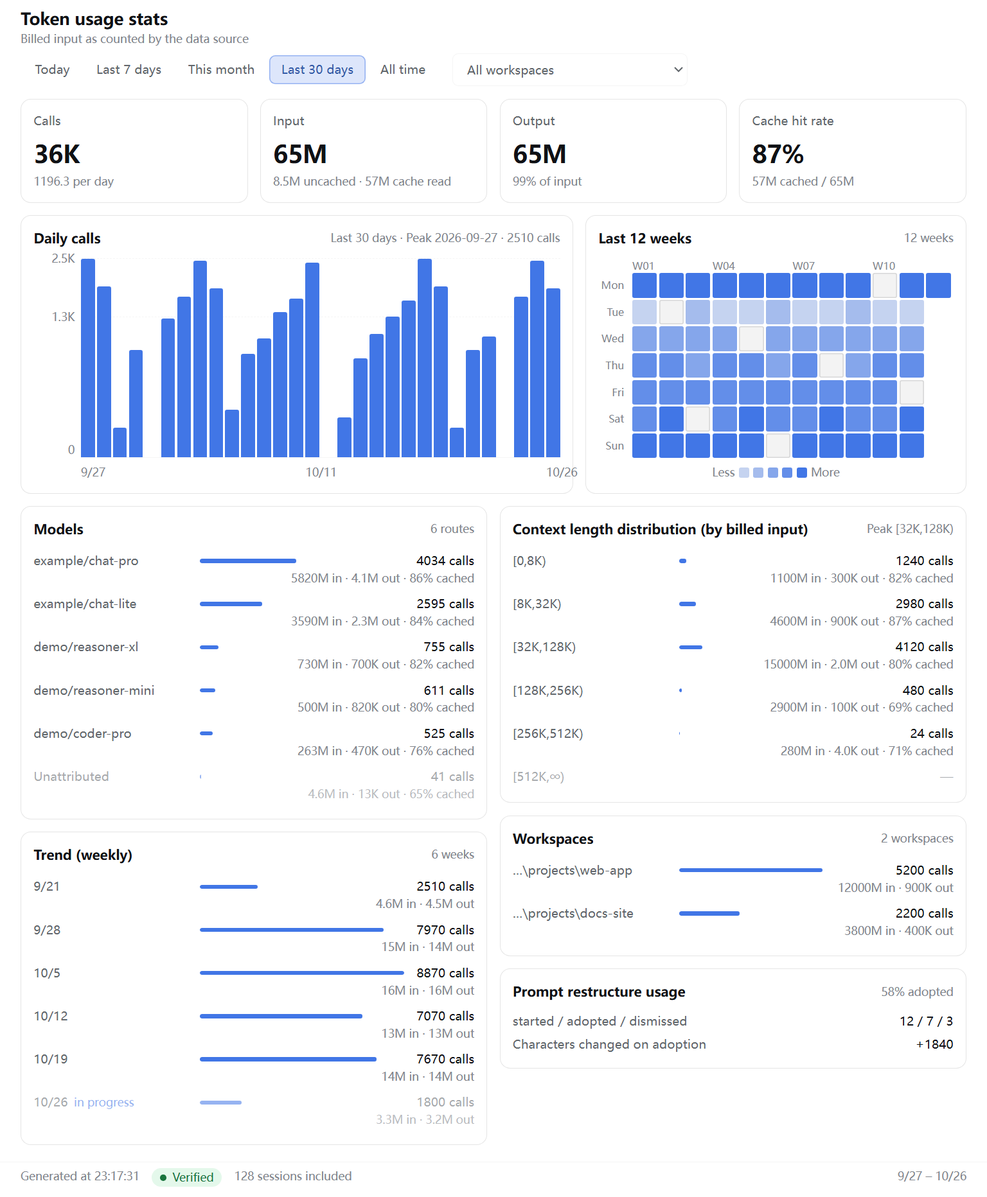
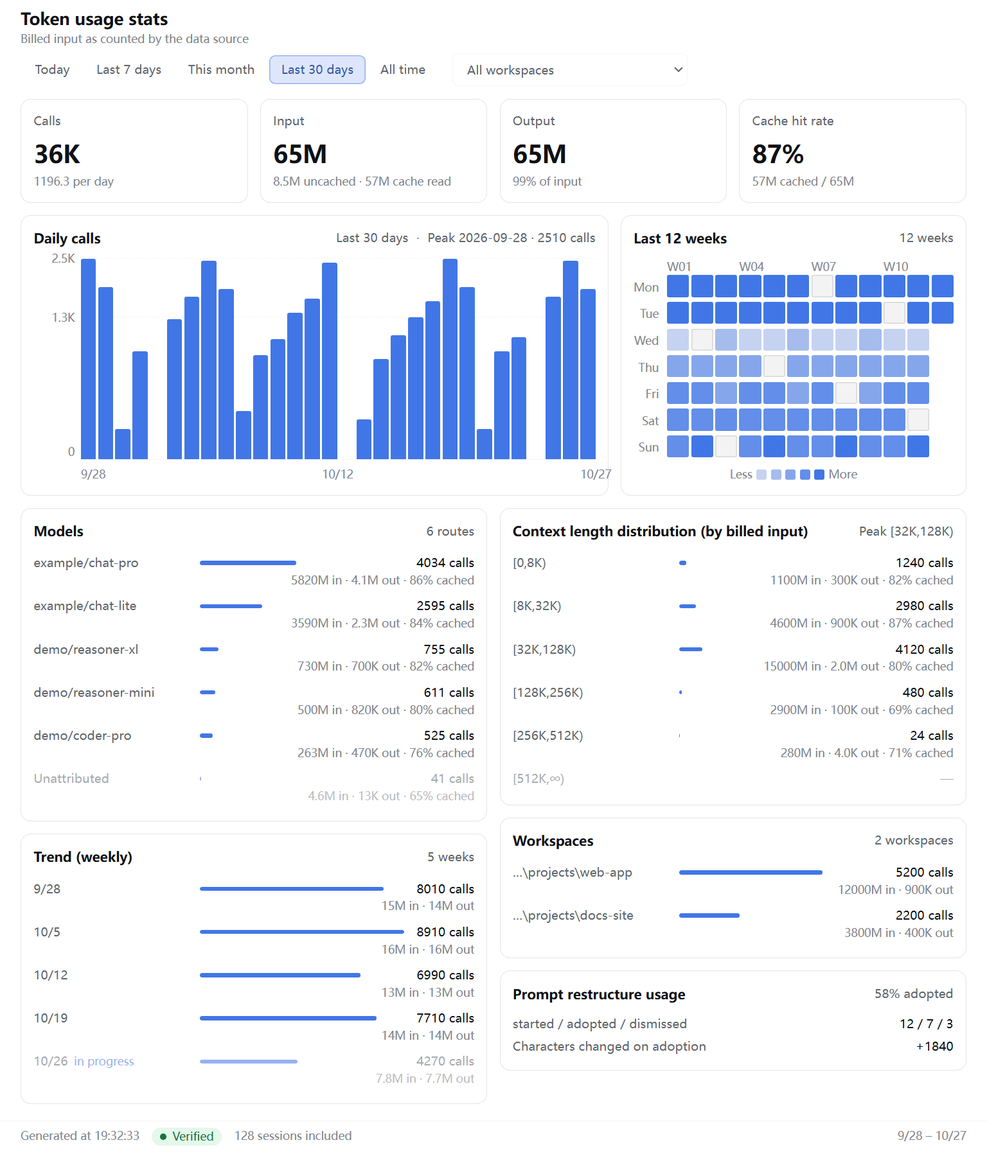
style(tokstats): refine wide chart layout and header hierarchy
- widen the daily chart relative to the fixed-size heatmap for wide panels

- separate chart range from conclusions, strengthen readable metadata, and enlarge heatmap coordinates

- cover the new hierarchy with TS-36 assertions and refresh localized screenshots

diff --git a/lib/client.js b/lib/client.js
@@ -723,9 +723,16 @@ window.__ModuleLoader__.load({
 					react.createElement("span", { className: "dsh-tokstats-cardTitle" }, title),
 					extra === undefined && note === undefined
 						? null
-						: react.createElement("span", { className: "dsh-tokstats-cardExtra" },
-							note === undefined ? null : note + " · ",
-							extra)),
+						: react.createElement("span", { className: "dsh-tokstats-cardAside" },
+							note === undefined ? null : react.createElement("span", {
+								className: "dsh-tokstats-cardRange", title: note,
+							}, note),
+							note !== undefined && extra !== undefined
+								? react.createElement("span", { className: "dsh-tokstats-cardSeparator", "aria-hidden": "true" }, "·")
+								: null,
+							extra === undefined ? null : react.createElement("span", {
+								className: "dsh-tokstats-cardExtra", title: extra,
+							}, extra))),
 				children);
 		}
 
@@ -1901,19 +1908,20 @@ window.__ModuleLoader__.load({
 			// 卡片栅格：单列容器（时间图一行 + 下方自适应两列）。间距统一 12px
 			//（SPEC §5.3），与卡片内边距同值，栏线才等距。
 			".dsh-tokstats-grid{gap:12px;display:grid;grid-template-columns:1fr}",
-			// 时间图并排（日柱图在左、热力图在右）：**1.45 : 1**，两卡等高（stretch），
+			// 时间图并排（日柱图在左、热力图在右）：**1.7 : 1**，两卡等高（stretch），
 			// 高度以较高的那张为准，短的那张把内容顶部对齐。
 			//
 			// 为什么不是 1:1（v0.8.0 曾是 1:1，理由是「让三行对齐成同一根栏线」）：
 			// 两张图回答的问题不同——日柱图是**主图**（逐日走势，30 列时每列只有 9–13px，
 			// 再窄就退化成一排竖线），热力图是**索引**（12×7 的定位用图，格子有 24px
 			// 上限、整图封顶 310px，给再多宽度也用不上）。1:1 把宽度平均分给两者，
-			// 结果是主图被压窄、副图留白——栏线对齐换来的是主图失真。样稿也是 1.45:1。
+			// 结果是主图被压窄、副图留白。1.45:1 在超宽宿主里仍给主图偏少，现调到
+			// 1.7:1；仍守住 2:1 上界，不让热力图窄到读不出色阶。
 			//
 			// 折成单列的门槛 820px：等宽分栏后每张卡只剩约 (视口 − 侧栏 − 48)/2，
 			// 低于 820px 时热力图格子会压到 18px 以下、柱图横向刻度开始挤，那时并排
 			// 已经不划算了。
-			".dsh-tokstats-pairGrid{gap:12px;display:grid;grid-template-columns:1.45fr 1fr;align-items:stretch}",
+			".dsh-tokstats-pairGrid{gap:12px;display:grid;grid-template-columns:1.7fr 1fr;align-items:stretch}",
 			"@media (max-width:820px){.dsh-tokstats-pairGrid{grid-template-columns:1fr}}",
 			// 自适应两列（TS-31）：**每张卡保持自己的高度**，列内自上而下紧挨着排。
 			//
@@ -1942,7 +1950,15 @@ window.__ModuleLoader__.load({
 			// 与「这是哪项指标」不会读成同一层。`min-width:0` 让右侧附加信息拿到
 			// 省略空间而不是把标题挤出去。
 			".dsh-tokstats-cardTitle{color:var(--dsw-alias-label-primary);font-size:13px;font-weight:600;line-height:20px;min-width:0;overflow:hidden;text-overflow:ellipsis;white-space:nowrap}",
-			".dsh-tokstats-cardExtra{color:var(--dsw-alias-label-tertiary);margin-left:auto;font-variant-numeric:tabular-nums lining-nums;font-size:11px;line-height:16px;text-align:right;white-space:nowrap;overflow:hidden;text-overflow:ellipsis;flex:none;max-width:60%}",
+			// 卡头右侧不是一整串同级灰字：范围（实际窗口）与结论（峰值 / 采纳率）
+			// 都是读图信息，升到 12/18 + secondary；只有分隔符留在附注层。两者各自
+			// 带完整 title，窄卡省略后仍能读到原值，不靠把文字挤小来硬塞。
+			".dsh-tokstats-cardRange,.dsh-tokstats-cardExtra{color:var(--dsw-alias-label-secondary);font-variant-numeric:tabular-nums lining-nums;font-size:12px;line-height:18px;text-align:right;white-space:nowrap;overflow:hidden;text-overflow:ellipsis;min-width:0}",
+			// 右侧整组靠右，范围与结论相邻；整组可收缩，但内部三项不许被各自
+			// 压成省略号——空间不足时优先缩标题，仍然不够才缩整组。
+			".dsh-tokstats-cardAside{margin-left:auto;min-width:0;display:flex;align-items:center;gap:8px;flex:0 1 auto}",
+			".dsh-tokstats-cardRange,.dsh-tokstats-cardExtra{flex:none}",
+			".dsh-tokstats-cardSeparator{color:var(--dsw-alias-label-tertiary);font-size:11px;line-height:16px;flex:none}",
 			// 行列表（promptopt 计数器用）：只有「标签 + 数值」两列，不需要比例条。
 			".dsh-tokstats-row{align-items:center;gap:12px;padding:2px 0;display:flex}",
 			".dsh-tokstats-rowLabel{color:var(--dsw-alias-label-secondary);font-variant-numeric:tabular-nums lining-nums;min-width:0;text-overflow:ellipsis;white-space:nowrap;flex:none;max-width:42%;overflow:hidden}",
@@ -1993,10 +2009,10 @@ window.__ModuleLoader__.load({
 			".dsh-tokstats-heatFrame{column-gap:6px;row-gap:0;justify-content:center;max-width:340px;margin:2px auto 0;display:grid;grid-template-columns:auto auto;grid-template-rows:auto auto}",
 			".dsh-tokstats-heatCorner{grid-area:1/1}",
 			// 周标：与格子同样的 12 条轨道 + 同样的 2px 间距（少一个参数就会逐列累积偏移）。
-			".dsh-tokstats-heatWeeks{grid-area:1/2;color:var(--dsw-alias-label-tertiary);font-variant-numeric:tabular-nums;font-size:10px;line-height:14px;display:grid;grid-template-columns:repeat(12,minmax(0,24px));gap:2px;justify-content:center}",
+			".dsh-tokstats-heatWeeks{grid-area:1/2;color:var(--dsw-alias-label-tertiary);font-variant-numeric:tabular-nums;font-size:11px;line-height:16px;display:grid;grid-template-columns:repeat(12,minmax(0,24px));gap:2px;justify-content:center}",
 			".dsh-tokstats-heatWeekTick{white-space:nowrap;overflow:visible}",
 			// 行标：7 行与格子同高同间距，文字在每条轨道里垂直居中。
-			".dsh-tokstats-heatDows{grid-area:2/1;color:var(--dsw-alias-label-tertiary);font-size:10px;line-height:14px;display:grid;grid-template-rows:repeat(7,minmax(0,24px));gap:2px;align-items:center}",
+			".dsh-tokstats-heatDows{grid-area:2/1;color:var(--dsw-alias-label-tertiary);font-size:11px;line-height:16px;display:grid;grid-template-rows:repeat(7,minmax(0,24px));gap:2px;align-items:center}",
 			".dsh-tokstats-heatDow{display:flex;align-items:center;justify-content:flex-end;padding-right:2px}",
 			".dsh-tokstats-heat{grid-area:2/2;display:grid;grid-template-columns:repeat(12,minmax(0,24px));grid-template-rows:repeat(7,minmax(0,24px));grid-auto-flow:column;justify-content:center;gap:2px;max-width:310px;margin:0}",
 			// 格子默认是**背景色**（零日无填充）。`border:none;padding:0` 清掉 button

diff --git a/docs/INVARIANTS.md b/docs/INVARIANTS.md
@@ -73,11 +73,12 @@
 | TS-28 | **热力图**（形状与可读性契约）：面板新增 12 周热力图，**窗口固定 84 天且不随档位变**（`TOKSTATS_HEATMAP_DAYS = 84`；跟 `windowDays` 走会让「近 7 天」档缩成 7 格，失去「稳定时间轴」职责）。色阶按 `sqrt(calls/peak)` 五档（边界 0.2 / 0.4 / 0.6 / 0.8 → 五档明度）。实现是 `color-mix(in srgb, accent N%, 面板格底色)`（26 / 44 / 62 / 81 / 100%），**不是「同色 + opacity」**：opacity 会把背后的卡片底色一起透出来，暗色主题下第一档几乎与零日格同色；且图例要跟格子对得上，opacity 方案得让图例自己再叠一层、算出来的不是同一个颜色。格子与图例**共用** `.dsh-tokstats-ramp` + `data-level` 一套规则；零日格底色走面板变量 `--dsh-tokstats-cell`（`label-primary` 5% 混入 layer-1），**不得直接取 `bg-layer-2`**——亮色主题里 layer-1 / layer-2 都是纯白，零日格会隐形，与柱图柱高**同一公式**（TS-23），两张图对同一天给出同一视觉强度；`calls <= 0` 返回 0 = 无数据（**不是最浅档**），零日不填充且 tooltip 写「无记录」。折叠区（`[epoch.start, epoch.end)` 落在 84 天窗口内的部分）渲染为「不可按日拆」专用态，**不得渲染成「无记录」**——那天有量、只是被 E1 归并进区间了，那是谎报。布局 12 列 × 7 行、**周一在最上**（与 host `tokstatsWeekStartOf` 同口径），容器 `role="grid"` + 每格 `aria-label` + 键盘导航（←/→ 跨日、↑/↓ 跨周、Enter/Space 选中、Esc 退出）；**末列未过完的周渲染成空占位而不是零格**（零格会被读成「那天没用量」，而它还没到）。折叠格样式用 `.dsh-tokstats-heatFolded` 且**不复用**柱图的 `.dsh-tokstats-barEpoch`（不同图形元素，共用类名会让改柱图折叠样式时意外改到热力图）；网格必须 `grid-auto-flow:column` + `grid-template-rows:repeat(7,…)`（配 `grid-template-columns:repeat(12,…)`），否则 84 个格子会横排成「十二个周一」；**格子必须有尺寸上限**（`minmax(0,24px)` 双向钳 + 整图 `max-width:310px` + `margin:2px auto 0` 居中；第五批起与日柱图并排且间距收紧，24px 是可点目标的下限）——纯 `1fr` 在整行卡片里会把每格拉到约 95px，热力图变成七行巨大色块并把下面所有卡片挤出首屏（实测全宽 1600×1000 只剩热力图），封顶后的余量必须两侧均分否则图挤在左缘。旧 host 无 `heatDaily` 时整卡不渲染、不抛错（硬规则 6） | client：`test/client-tokstats.test.mjs`「AC-6：热力图渲染 12 列 × 7 行，周一在最上（第一行第一格是周一）」「AC-6：末列未过完的周渲染成空占位，不是零格」「AC-7：色阶按 sqrt(calls/peak) 分五档（按值断言，不按「包含某档」）」「AC-8：零日不渲染填充（无 data-level），tooltip 写「无记录」」「AC-9：折叠区格子渲染为「不可按日拆」，且**不含「无记录」文案**（防谎报）」「AC-9：epoch 为 null 时不出现任何折叠格（反向断言）」「AC-11：键盘导航——←/→ 跨日、↑/↓ 跨周、Enter/Space 选中、Esc 退出」「AC-12：热力图词典键 zh/en 成对、整句模板、无残留占位符」「样式：热力图折叠格用斜纹 + 主题变量，且不复用柱图折叠类名（TS-28）」「TS-28：旧 host 无 heatDaily 时热力图整块不渲染、不抛错（硬规则 6）」「TS-28：heatDaily 为空数组时同样不渲染热力图卡」；host：`test/host-tokstats.test.mjs`「AC-4：heatDaily 恒为 84 天，不随 request.windowDays 变（端点级）」「AC-4：heatDaily 是纯增量字段，且不进投影状态（TS-01 / TS-16）」。**真实宿主目检**（AC-16 口径，本批由 Lead 执行）：12 周形状与本机真实数据一致（活跃日成串、中间断档为空格）、点某天进单日模式后五档置灰 + 面包屑出现、`Esc` 退出；中英两套各看一次 | L2 + 目检 |
 | TS-29 | **单日模式**（`day` 入参契约）：`summary` 端点新增**并列**入参 `day`（`^\d{4}-\d{2}-\d{2}$` 校验，非法按 `undefined`、不抛错也不退化成整窗），**`day` 存在时覆盖 `windowDays`**——这是显式裁决，不是实现巧合。明细过滤**必须双端钳**（`cell.d !== day`）：只把 `windowStart` 换成 `day` 的语义是「下界」，会把 day 之后的每一天都放进来，多报且看起来完全正常。`day` **不改** TS-20 的「五档共用 `windowDays`」契约——client 在单日下仍传 `windowDays`（它不知道 host 的优先级规则），所以两者必须能并存。`day` 落在某会话 `[epoch.start, epoch.end)` 内时 host 返回 `dayFolded: true`（多会话取**或**），且**不把 epoch 合计挂到那一天**（区间合计不是那天的真实用量），但 epoch 端点仍要报出来（client 靠它截断热力图）；`dayFolded` 只在 `day` 存在时出现（纯增量）。client 侧：`dayFolded === true` 时显示「该日已折叠」而**不显示任何数字**——折叠日的 `totals` 是 0，照常渲染会让读者看到「这一天一次都没用过」，同样是谎报；单日下五档按钮**置灰不隐藏**（隐藏会让工具条高度变化、面板跳动），日柱图与周趋势卡**隐藏**（单日柱图只剩一根孤柱；周合计与 `totals` 完全相同，是复述主值），KPI「调用次数」副值改「占 84 天份额」且分母取 `heatDaily` 合计、**不得取 `totals`**（后者恒得 100%），维持 TS-17 的四卡副值两两不等；折叠格与零日**不可点**（渲染时即用 `epoch.start` / `epoch.end` 判定，不需要先请求——点进去会显示偏低的数）；工作区过滤器与 `day` 叠加生效；页脚区间在单日下换成单日形态（不得写成「窗口下界 – 今天」，那会写着「10/20 – 10/25」而面板全是 10/20 的数，读者会以为算错了区间）；`heatDaily` 在单日下照常返回 84 天（SPEC D15：不特判，为它写分支反而增加状态机 bug 面） | host：`test/host-tokstats.test.mjs`「AC-1：day 过滤只留那一天（双端钳，day 之后的天不得混进来）」「AC-2：day 存在时覆盖 windowDays（裁决 C 的唯一防线）」「AC-3：dayFolded 两态——day 落在折叠区间内为 true，区间外为 false」「AC-3：dayFolded 只在 day 存在时出现（纯增量，旧 client 不受影响）」「AC-3：非法 day 按 undefined 处理（不抛错、不退化成整窗）」「TS-29：单日模式下 heatDaily 照常 84 天（SPEC D15：不特判）」「TS-29：单日模式下 epoch 合计不得挂到那一天（否则数字不是那天的）」「TS-29：day 落在折叠区间内时 epoch 端点仍要报（client 靠它截断热力图）」；client：`test/client-tokstats.test.mjs`「AC-10：单日模式下五档按钮全部置灰（置灰不隐藏）」「AC-10：单日下日柱图隐藏、周趋势卡隐藏（裁决 A）」「AC-10：单日下 KPI 副值改「占 84 天份额」，四卡副值两两不等（不复述主值）」「AC-10：单日模式请求带 day，且仍带 windowDays（host 按裁决 C 覆盖）」「AC-10：面包屑出现，点「全部区间」退出单日模式」「AC-10：点已选中的格退出单日模式（第二个出口）」「TS-29：点进折叠日**不显示任何数字**，只显示折叠说明（防谎报）」「TS-29：折叠格不可点（渲染时即判定，不需要先请求）」「TS-29：折叠格不可点、零日不可点，两者 tooltip 各写明原因（AC-10 / SPEC D10）」「TS-29：单日模式页脚只显示那一天，不是「窗口下界 – 今天」」「TS-29：单日模式下工作区过滤器与 day 叠加（两个过滤器同时生效）」。**真实宿主目检**（AC-16 口径，本批由 Lead 执行）：点某天 → 面板整体重算成那天的数、面包屑显示日期、`Esc` 退出；中英两套各看一次 | L2 + 目检 |
 | TS-30 | **顶部四卡跟随时间档位**（缺省「当日」）：四张指标卡回答「所选区间一共用了多少」，与下方图表的窗口**同源**（都取 `totals`，host 已按窗口 + 工作区过滤）；没有第二套「当日」取值，也就不存在两套数打架的面。曾有一版把四卡钉死在「当日」、不随档位变——那会让「近 30 天」的图表上面挂着一天的数，读者得自己记住两套口径。「调用次数」副值按窗口形态选：**单天窗口**（当日档 / 单日模式）给「占 84 天份额」——日均会等于主值本身，复述主值违反 TS-17；**多天窗口**给日均；「全部」档没有天数概念，写「全部历史」。**`weekly` 不足 2 行就不渲染周趋势卡**（当日档、本月月初那几天、单日模式都落在这里）：那一行恒等于 `totals`，是复述主值；判据用**行数**而不是档位天数——只判 `days === 1` 会漏掉「本月」1–7 号。隐藏后尾部剩下的卡由 `pairRow` 自动凑行，不得留半个空列。日柱图在当日档**仍保留**，且按固定 7 天窗口画（TS-33）——按档位隐藏整卡会让切档时整页重排 | `test/client-tokstats.test.mjs`「TS-30：缺省「当日」档——四卡显示今天的数；切到「近 7 天」后同步变成区间合计」（四卡四个数逐项变化 + 副值从「占 84 天份额」变「日均」）「AC-9：周趋势不足 2 行时整卡不渲染（那一行恒等于四卡合计，复述主值）」「TS-33：日柱图跟随档位、但窗口不少于 7 天（当日档仍画 7 根柱）」「TS-17 / AC-5：KPI 四卡副值两两不等…」「AC-10：单日下 KPI 副值改「占 84 天份额」，四卡副值两两不等（不复述主值）」；真实宿主目检（第五批）：五档逐档点一遍，四卡与图表数字同步变化、当日档无周趋势卡、切回当日数字回到当天 | L2 + 目检 |
-| TS-31 | **上方时间图并排、下方自适应两列**（布局契约）：① **顶部**两张时间图放在 `.pairGrid`（**`1.45fr 1fr`** + `align-items:stretch`），**日柱图在左、热力图在右**（主图优先），且**左侧必须严格宽于右侧**；只有一张时（单日模式隐藏柱图 / 旧 host 无 heatDaily）独占整行。比例从 v0.8.0 的 `1fr 1fr` 改成 1.45:1（2026-10-26，与样稿一致）：两张图回答的问题不同——日柱图是**主图**（30 列时每列只有 9–13px，再窄就退化成一排竖线），热力图是**索引图**（格子 24px 上限、整图封顶 310px，多给的宽度用不上）；1:1 把宽度平均分给两者，换来的是主图被压窄、副图留白。**上界仍是 2:1**（再宽热力图就留不住五档色阶）。两张都是图、天然等高，stretch 只是把余量交给柱图绘图区，不算浪费。② **下方**卡片放进 `.dsh-tokstats-columns`（`display:flex` + `align-items:flex-start`）里的两个 `.dsh-tokstats-column`（各 `flex:1`、`flex-direction:column`、`gap:12px`）：**每张卡保持自己的高度**，按估算高度（行数 × 单行高度）贪心塞进较矮的那一列，列内自上而下紧挨着排。**不得用 `display:grid` + `align-items:stretch` 强行等高**：行高由该行最高的卡决定，矮卡被拉高后下半张是空的——实测「上下文长度分布 6 行 vs 模型排行 16 行」时空出 400+px，那才是这次要修的浪费。③ 分配顺序即阅读顺序：模型排行固定第一张（左列顶部），其余（上下文长度 / 周趋势 / 工作区 / 提示词整理）按高度补进较矮的列；只有一张卡时独占整行（另一列留空更难看）。④ 尺寸与间距不变：热力图格子 `minmax(0,24px)`、绘图区 88px 起、栅格 gap 10px、卡片内边距 10px、页面左右 20px；窄窗（≤820px）列容器折成单列 | `test/client-tokstats.test.mjs`「AC-6：热力图与日柱图并排同一行（pairGrid 主图优先两列），另一张缺席时不占半行」（柱图在左、每行恰好两卡、第一列严格宽于第二列）「TS-31：下方是自适应两列——卡片保持自身高度，按估算高度贪心分列」（两列结构 + 模型排行在左上 + 五张卡不重不漏 + `align-items:flex-start` 且不得 stretch + 窄窗折单列）「AC-6：时间图行是唯一的「主图优先」双列（等高交给 stretch）…」（比例上界 2:1）；**反向验证**（2026-10-26）：把比例退回 `1fr 1fr` → 两条用例同时变红；改成 `2fr 1fr` → 上界那条变红；真实宿主目检（第五批，无头 chromium，10 条模型排行）：整页高度从约 1000px 压到 660px，左列只有一张长卡、右列三张紧挨着排，卡片内不再出现大面积空白 | L2 + 目检 |
+| TS-31 | **上方时间图并排、下方自适应两列**（布局契约）：① **顶部**两张时间图放在 `.pairGrid`（**`1.7fr 1fr`** + `align-items:stretch`），**日柱图在左、热力图在右**（主图优先），且**左侧必须严格宽于右侧**；只有一张时（单日模式隐藏柱图 / 旧 host 无 heatDaily）独占整行。比例从 v0.8.0 的 `1fr 1fr` 先改成 1.45:1，再在 2026-10-27 的宽屏目检后调到 **1.7:1**：两张图回答的问题不同——日柱图是**主图**（30 列时每列只有 9–13px，再窄就退化成一排竖线），热力图是**索引图**（格子 24px 上限、整图封顶 310px，多给的宽度用不上）；1:1 把宽度平均分给两者，换来的是主图被压窄、副图留白。**上界仍是 2:1**（再宽热力图就留不住五档色阶）。两张都是图、天然等高，stretch 只是把余量交给柱图绘图区，不算浪费。② **下方**卡片放进 `.dsh-tokstats-columns`（`display:flex` + `align-items:flex-start`）里的两个 `.dsh-tokstats-column`（各 `flex:1`、`flex-direction:column`、`gap:12px`）：**每张卡保持自己的高度**，按估算高度（行数 × 单行高度）贪心塞进较矮的那一列，列内自上而下紧挨着排。**不得用 `display:grid` + `align-items:stretch` 强行等高**：行高由该行最高的卡决定，矮卡被拉高后下半张是空的——实测「上下文长度分布 6 行 vs 模型排行 16 行」时空出 400+px，那才是这次要修的浪费。③ 分配顺序即阅读顺序：模型排行固定第一张（左列顶部），其余（上下文长度 / 周趋势 / 工作区 / 提示词整理）按高度补进较矮的列；只有一张卡时独占整行（另一列留空更难看）。④ 尺寸与间距不变：热力图格子 `minmax(0,24px)`、绘图区 88px 起、栅格 gap 10px、卡片内边距 10px、页面左右 20px；窄窗（≤820px）列容器折成单列 | `test/client-tokstats.test.mjs`「AC-6：热力图与日柱图并排同一行（pairGrid 主图优先两列），另一张缺席时不占半行」（柱图在左、每行恰好两卡、第一列严格宽于第二列）「TS-31：下方是自适应两列——卡片保持自身高度，按估算高度贪心分列」（两列结构 + 模型排行在左上 + 五张卡不重不漏 + `align-items:flex-start` 且不得 stretch + 窄窗折单列）「AC-6：时间图行是唯一的「主图优先」双列（等高交给 stretch）…」（比例上界 2:1）；**反向验证**（2026-10-26）：把比例退回 `1fr 1fr` → 两条用例同时变红；改成 `2fr 1fr` → 上界那条变红；真实宿主目检（第五批，无头 chromium，10 条模型排行）：整页高度从约 1000px 压到 660px，左列只有一张长卡、右列三张紧挨着排，卡片内不再出现大面积空白 | L2 + 目检 |
 | TS-32 | **面板的数据色**（色彩契约）：面板里所有「表示量 / 可交互强调」的色块——柱体、比例条、热力格与图例、选中档位——统一走面板自己的 `--dsh-tokstats-accent`，值取宿主的**业务色** `--dsw-alias-state-business-primary`（暗色 deepseek-400 `#7aaaff` / 亮色 deepseek-500 `#4176e6`），兜底回落 `--dsw-alias-brand-primary`。**不得直接用 brand-primary 当数据色**：它暗色里近白（neutral-bluish-50）、亮色里近黑（neutral-bluish-1000），色相为零——整块面板（柱、热力、比例条、选中态）会退化成灰阶，这正是第五批要修的问题。落在**实心数据色**上的文字（峰值标签）走 `--dsh-tokstats-on-accent` = **卡片底色**（挖空），两套主题都自然可读；**不得用 `label-primary-inverted`**——它是「与 brand 相反」的色，数据色换成蓝之后那个反色就失效。**选中档位不再用挖空**（2026-10-26 裁决）：底色是 accent 与卡片底 18% 的混合（软底），文字是 accent 与 `label-primary` 的 70% 混合（12px 文字的对比度：亮色约 5.6:1、暗色约 6.2:1；纯 accent 压在软底上只有约 3.2:1，不合格），外圈 1px `inset` accent 描边（用 border 会把 32px 控件撑高 2px）。理由是实心 accent 会与 KPI 主值、柱体抢同一档注意力，而工具条在阅读顺序上排在数据之后；软底仍由同一个 `--dsh-tokstats-accent` 派生，色彩契约不变。零日/空格底色走 `--dsh-tokstats-cell`（见 TS-28）。改色只改这三个变量；要换色相就换 `--dsh-tokstats-accent` 的取值来源 | `test/client-tokstats.test.mjs`「TS-32：面板有自己的数据色——取自宿主业务色（品牌蓝），不是零色相的 brand-primary」（变量定义 + 柱体/比例条/峰值标签三处必须用数据色 + 不得退回 brand-primary）、「AC-7：选中态由数据色派生（软底 + accent 派生文字 + inset 描边），不是与容器底只差几级的 bg-layer-2」（底色必须 color-mix 自 accent 与卡片底、文字必须 color-mix 自 accent 与 `label-primary`、描边必须 inset、不得退回实心 accent 或纯 bg-layer-2 单色、hover 规则必须紧跟）；样式断言：`test/client-tokstats.test.mjs`「样式：热力图折叠格用斜纹 + 主题变量，且不复用柱图折叠类名（TS-28）」里的五档断言（color-mix 调和、不得用 opacity、不得写死颜色）。**真实宿主目检**（第五批）：暗色主题下柱/热力/比例条为品牌蓝、选中档位为淡蓝软底 + 蓝字 + 细描边（不再是实心蓝底深字）；亮色主题下为零日格可见、同样为软底蓝字（不再是蓝底白字）；两套主题各看一次 | L2 + 目检 |
 | TS-33 | **日柱图窗口 = 所选档位，且不少于 7 天**（窗口契约）：`chartDays = days > 0 ? max(days, 7) : 0`，即当日 → 7 天、近 7 天 → 7 天、本月 / 近 30 天 → 各自窗口逐日、全部 → 全历史（超 30 列按 `ceil(天数/30)` 天合并）。7 天是**下限**而不是固定值：更短的窗口画不出形状（一根柱），而更长的窗口不该被砍成 7 天——「近 30 天 / 本月看不到逐日走势」是锁死 7 天那一版留下的真缺口（热力图只给 12 周形状、没有数字）。三条实现约束：① **数据源按窗口分情况**：窗口 ≥ 7 天用 `daily`（当前窗口的逐日真源），窗口 < 7 天（当日档）`daily` 只有一行，借与档位无关的 `heatDaily`（固定 84 天）取最近 7 天；旧 host 无 `heatDaily` 时退回 `daily`（退化成一根柱，但不整卡消失，硬规则 6）。② **窗口起点与列算法同源**：都用 `generatedAt` 的本地日算 `today - (chartDays - 1)`，不能借热力图那个「真实今天」——差一天就会与列计算错位。③ **卡头写出实际跨度**（`近 N 天` / `全部`）：「图比档位长」只剩当日档一处，不标出来读者会以为图画错了。推论：列数由窗口决定，列密时（>12 列）不标柱顶峰值（见 TS-23） | `test/client-tokstats.test.mjs`「TS-33：日柱图跟随档位、但窗口不少于 7 天（当日档仍画 7 根柱）」（当日 7 列 + 卡头「近 7 天」；近 30 天 30 列 + 卡头「近 30 天」+ 无柱顶标签；全部 60 天合并 30 列 + 卡头「全部」）「TS-23 / AC-4：柱宽有上限、列少时居中，列多时合并到 30 列」；真实宿主目检（第五批）：五档逐档切一遍，列数与卡头跨度同步变化、30 列下不打架 | L2 + 目检 |
 | TS-34 | **周趋势卡是条列表，不是表格**（呈现契约）：每行 = 一个自然周，「周起点 + 条 + 次数」，副行给计费输入 / 输出。① **条长按「最大周」归一**（不是按窗口份额）：这是趋势视图不是构成视图——按份额归一时十来周里每根条都很短，高低差反而看不出来；构成已经由「上下文长度分布 / 模型排行」承担。② **本周必须标出来**：本周还没过完、数字每天在涨，和完整周并排会被读成「用量掉了」，所以整行置灰（`.dsh-tokstats-dim`）+ 标签后缀「进行中」（`.dsh-tokstats-weekNow`，用数据色）+ tooltip 整句写明「本周还没过完，数字仍在增长」，三处缺一都会让人去猜「这条为什么淡」。只标本周、不标「被窗口切掉的头尾周」：后者是「窗口内合计」的固有口径，多标是噪音。③ `weekly` 少于 2 行时整卡不渲染（见 TS-30）。数值口径同 TS-17（「输入」= `in+cr+cw`） | `test/client-tokstats.test.mjs`「AC-9：周趋势渲染为条列表（周起点 + 次数 + 输入/输出），本周标「进行中」」（两行结构 + 条长 100% / 33.3% + 本周置灰与 tooltip + 「进行中」后缀）、「AC-9：周趋势不足 2 行时整卡不渲染（那一行恒等于四卡合计，复述主值）」「面板所有「输入」显示值统一为 in+cr+cw…」（周行的输入 = billed(weekly)）；真实宿主目检（第五批）：本周行淡显带「进行中」、条长与次数成比例、五周窗口下 5 行不溢出 | L2 + 目检 |
 | TS-35 | **「面」用 border-l2、「线」用 border-l1**（边框层级契约，2026-10-26）：宿主亮色主题里 `--dsw-alias-bg-base` 与 `--dsw-alias-bg-layer-1` **同为纯白**（都指 `--dsw-static-neutral-bluish-00`），卡片与页面底色完全同色，于是边框是唯一的分层手段。而 `--dsw-alias-border-l1` 亮色是 `#0000000a`（4% 黑），压在纯白上合成 `#f5f5f5`、对比度仅 **1.09:1**——八块卡片会连成一片，读者数不出有几张卡（这是浅色主题截图的实测结论，不是推测）。因此**三处卡片面**（`.dsh-tokstats-skCard` / `.dsh-tokstats-kpi` / `.dsh-tokstats-card`）必须用 `--dsw-alias-border-l2`（`#0000001a`，10% 黑 → `#e5e5e5`，1.26:1）。**另一半同样硬**：**三处分隔线**（`.dsh-tokstats-chartPlot` 底边 = 0 刻度、`.dsh-tokstats-gridLine` 网格线、`.dsh-tokstats-foot` 页脚横线）**继续用 l1**——它们的语义是「一条线」而不是「一块面」，跟着加重会与卡片边框抢层级（页脚曾误用 l2，比卡片还实，已回退）。骨架卡同改：首屏骨架与成品卡同圆角是既有约定（跳版会闪），边框不同样会跳。判据只针对这三个类名，不禁止别处用 l1/l2；深色主题下 l1（`#ffffff0f` 5.9% 白）/ l2（`#ffffff1f` 12.2% 白）同样满足「面重线轻」，改后深色卡边对比度 1.36:1 → 1.68:1，不是只对亮色生效的补丁 | `test/client-tokstats.test.mjs`「TS-35：卡片「面」用 border-l2、「线」仍用 border-l1——亮色下卡与页同色时靠 l2 才分得开」（六个类名逐个断言：三处面必须是 l2 且不得退回 l1、三处线必须仍是 l1）。**反向验证**（2026-10-26，两条各记一次实测）：① 把 `.dsh-tokstats-card` 改回 l1 → 红；② 把 `.dsh-tokstats-foot` 也改成 l2 → 红（防「一次改全」式过度修正）。**目检**：无头 chromium 渲染真实组件树 + 真实 CSS，亮/暗两套主题各一次，逐像素量卡边对比度（1.09 → 1.26 / 1.36 → 1.68） | L2 + 目检 |
+| TS-36 | **读图信息与附注分层**（2026-10-27）：热力图周标与星期标统一 `11px/16px`，柱内峰值标签因柱宽约束仍保留 `10px/12px`；卡头右侧的**实际时间范围**（`.cardRange`）与**读图结论**（`.cardExtra`）使用 `12px/18px + label-secondary`，页脚、坐标和其他附注仍用 `11px/16px + tertiary`。范围与结论各自省略并保留完整 `title`，不得因分层而截断后无处读取；不引入新统计口径、不改 host、不抬 `stateVersion` | `test/client-tokstats.test.mjs`「TS-36：热力图坐标与卡头读图信息分层，范围与结论保留完整 tooltip」：样式断言 + 真实卡片 DOM 断言；反向验证（2026-10-27）：去掉右侧 `cardAside` 分组后真实 CSS 预览中范围被推到卡头中部，与结论分离，补回分组后恢复 | L2 + 目检（1600px 暗色 / 960px 亮色英文 / 760px 窄窗，真实组件树 + 真实 CSS） |
 
 ## promptopt（PO）
 

diff --git a/docs/MAINTAINING.md b/docs/MAINTAINING.md
@@ -147,7 +147,7 @@ UI slot `conversation.composer.dock`（**只此一个**：`conversation.chat.ass
     - **client 侧约定**：热力图折叠格用 `.dsh-tokstats-heatFolded`，**不复用**柱图的 `.dsh-tokstats-barEpoch`——两者是不同图形元素，共用类名会让「改柱图的折叠样式」意外改到热力图（有用例断言它不得出现柱图类名）。网格必须 `grid-auto-flow:column` + `grid-template-rows:repeat(7,…)`（配 `grid-template-columns:repeat(12,…)`），否则 12 个格子会横排成「十二个周一」；DOM 顺序是「一周七天连排」，靠 `grid-auto-flow` 才转成列。**格子必须有尺寸上限**（`minmax(0,24px)` 双向钳 + 整图 `max-width:310px` + `margin:2px auto 0` 居中）：纯 `1fr` 在整行卡片里把每格拉到约 95px，热力图变成七行巨大色块、把下面所有卡片挤出首屏（实测全宽 1600×1000 下整屏只剩热力图），封顶后的余量必须两侧均分否则图挤在左缘；图例的 `justify-content` 必须与网格一致（实测全宽下错开约 390px，读起来像两个无关元素）。三条都是「能看但读错」的形态，由样式断言钉住（含「不得退回纯 `1fr`」的反向断言）。**24px 是与日柱图并排、且间距整体收紧后的取值**（比独占整行时的 34px、上一版的 30px 都矮），它同时是可点目标的下限——格子是按钮，再小就难点。
     - **不抬 `stateVersion`、不清缓存**：与 TS-03 的反例同构——只加聚合输出字段与请求入参，**不进投影状态**。`wire.view` 键集仍必须是 `w` / `e` / `rows`，`heatDaily` / `epoch.start` / `dayFolded` **都不得**进 `state`（TS-01 / TS-28 既有断言兜底）。
   - **卡片栅格（第五批：上方并排、下方自适应 + 整体收紧）**：结构分上下两段。
-    1. **顶部时间图**：`.dsh-tokstats-pairGrid`（`1fr 1fr` + `align-items:stretch`，≤820px 折单列），**日柱图在左、热力图在右**（主图优先）。两张都是图、天然等高，stretch 只是把余量交给柱图绘图区；只有一张时独占整行。
+    1. **顶部时间图**：`.dsh-tokstats-pairGrid`（`1.7fr 1fr` + `align-items:stretch`，≤820px 折单列），**日柱图在左、热力图在右**（主图优先）。两张都是图、天然等高，stretch 只是把余量交给柱图绘图区；只有一张时独占整行。1.7:1 是 2026-10-27 宽屏目检后的取值，仍受 TS-31 的 2:1 上界约束。
     2. **下方卡片**：`.dsh-tokstats-columns`（`display:flex` + `align-items:flex-start`）里放两个 `.dsh-tokstats-column`（`flex:1` + `flex-direction:column` + `gap:10px`）。**每张卡保持自己的高度**，按估算高度（行数 × 46px，promptopt 用 24px）**贪心塞进较矮的那一列**，列内自上而下紧挨着排。分配顺序即阅读顺序：模型排行固定第一张（左列顶部），其余按高度补位。
 
     **为什么不再用 grid + stretch**：栅格的行高由该行最高的卡决定，矮卡被拉高后下半张是空的——实测「上下文长度分布 6 行 vs 模型排行 16 行」时那片空白有 400+px。flex 列容器里卡片是普通块级项，高度由内容决定，空白只会留在页尾。**估算只用来决定「放进哪一列」**，不参与渲染，所以不必精确到像素；量错一两行只影响分配。

diff --git a/CHANGELOG.md b/CHANGELOG.md
@@ -13,6 +13,8 @@
 
 ### Changed
 
+- **tokstats 宽屏与读图信息层级调整**（2026-10-27）：日柱图 / 热力图栏比由 `1.45:1` 调至 `1.7:1`，宽屏下给主趋势图更多空间；热力图周标与星期标由 `10px` 升至 `11px`；卡头把实际时间范围与峰值等结论拆成独立节点，统一为 `12px + label-secondary`，并各自保留完整 tooltip。纯展示调整，不改统计口径与 host 数据。
+
 - **tokstats 的详细简介铺到 README、`package.json` 与市场条目草案**（2026-10-27）：`locale/*.json` 里那句「用量总览四项指标、上下文长度分布、近 12 周热力图与按周趋势，外加工作区与模型排行」原先只出现在宿主插件页，读者在仓库首屏与市场卡片上读到的是压缩版。本次按「同一事实、不同长度」分四层铺（分工表见 `docs/MAINTAINING.md`「简介文案的四层分工」）：
   - **README 中英**：组件表的 tokstats 格与该节首句都换成完整句；首句顺带按截图里的真实版式重排（顶部四卡 → 每日调用量 + 热力图 → 上下文长度分布 / 按周趋势 / 两个排行 → 提示词整理使用情况），旧句「中间两张时间图，下面四个排行」与面板实际布局对不上——热力图在右上、排行分两列。
   - **`package.json` 的 `description`**：改为「tokstats 详细句 + 另两个组件一句尾巴」。它描述的是**整包**，只在检索里露头，砍掉尾巴会让 tokprev / promptopt 失去发现入口。
